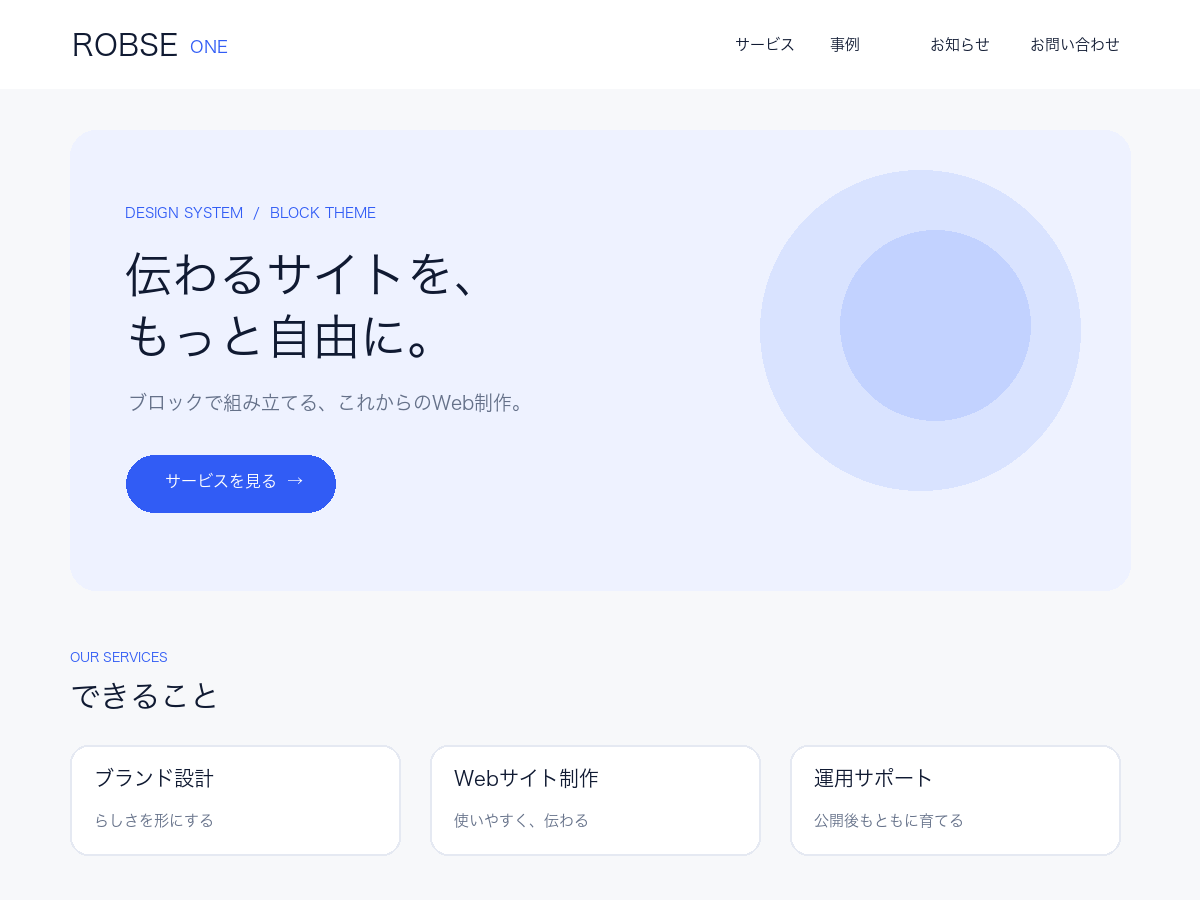
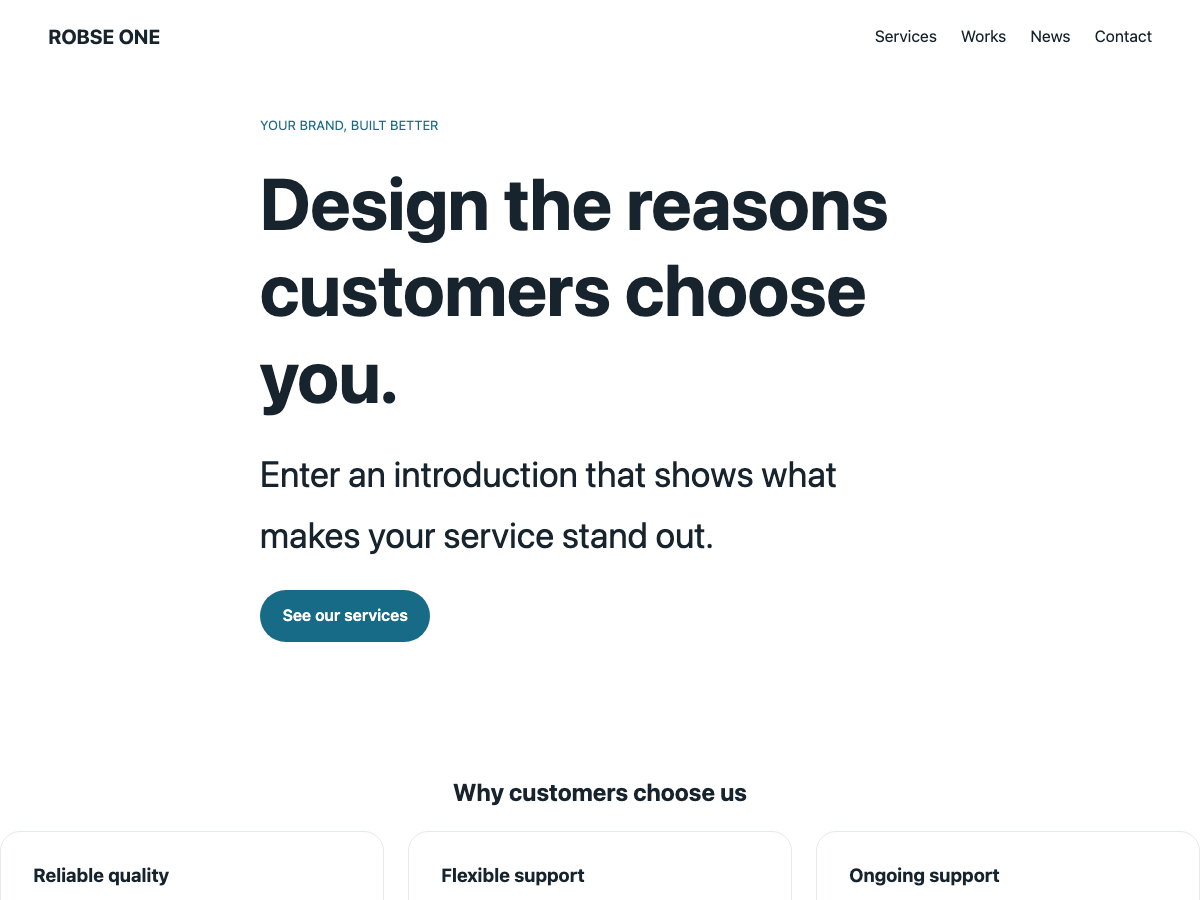
Theme 0.2.3 candidate: translatable remaining strings, new screenshot, readme copyright
Prepared for the review of ticket #292750. Not uploaded.

diff --git a/themes/robse-one/parts/footer.html b/themes/robse-one/parts/footer.html
@@ -1,3 +1,3 @@
 <!-- wp:group {"align":"full","backgroundColor":"paper","style":{"spacing":{"padding":{"top":"2rem","bottom":"2rem"}}},"layout":{"type":"constrained"}} -->
 <div class="wp-block-group alignfull has-paper-background-color has-background" style="padding-top:2rem;padding-bottom:2rem"><!-- wp:group {"align":"wide","layout":{"type":"flex","justifyContent":"space-between","flexWrap":"wrap"}} -->
-<div class="wp-block-group alignwide"><!-- wp:site-title {"level":0,"fontSize":"medium"} /--><!-- wp:paragraph {"fontSize":"small"} --><p class="has-small-font-size">© All rights reserved.</p><!-- /wp:paragraph --></div><!-- /wp:group --></div><!-- /wp:group -->
+<div class="wp-block-group alignwide"><!-- wp:site-title {"level":0,"fontSize":"medium"} /--><!-- wp:pattern {"slug":"robse-one/hidden-footer-credit"} /--></div><!-- /wp:group --></div><!-- /wp:group -->

diff --git a/themes/robse-one/style.css b/themes/robse-one/style.css
@@ -3,7 +3,7 @@ Theme Name: ROBSE ONE
 Theme URI: https://robse.jp/robse-one/
 Author: Robse
 Description: A block theme for Gutenberg-first site building, with design tokens and section patterns. It includes templates, template parts and reusable section patterns for small business sites.
-Version: 0.2.2
+Version: 0.2.3
 Requires at least: 6.6
 Requires PHP: 7.4
 Tested up to: 7.1

diff --git a/themes/robse-one/patterns/services.php b/themes/robse-one/patterns/services.php
@@ -6,4 +6,4 @@
  * Viewport Width: 1200
  */
 ?>
-<!-- wp:group {"align":"wide","anchor":"services","className":"robse-section","layout":{"type":"constrained"}} --><div class="wp-block-group alignwide robse-section" id="services"><!-- wp:paragraph {"align":"center","textColor":"ocean","fontSize":"small"} --><p class="has-text-align-center has-ocean-color has-text-color has-small-font-size">OUR SERVICES</p><!-- /wp:paragraph --><!-- wp:heading {"textAlign":"center","level":2} --><h2 class="wp-block-heading has-text-align-center"><?php echo esc_html__( 'Our services', 'robse-one' ); ?></h2><!-- /wp:heading --><!-- wp:columns --><div class="wp-block-columns"><!-- wp:column --><div class="wp-block-column"><!-- wp:group {"className":"robse-card","layout":{"type":"constrained"}} --><div class="wp-block-group robse-card"><!-- wp:heading {"level":3} --><h3 class="wp-block-heading"><?php echo esc_html__( 'Service A', 'robse-one' ); ?></h3><!-- /wp:heading --><!-- wp:paragraph --><p><?php echo esc_html__( 'Introduce the service and how it benefits your customers.', 'robse-one' ); ?></p><!-- /wp:paragraph --><!-- wp:paragraph --><p><?php echo esc_html__( 'Link to the service\'s details page.', 'robse-one' ); ?></p><!-- /wp:paragraph --></div><!-- /wp:group --></div><!-- /wp:column --><!-- wp:column --><div class="wp-block-column"><!-- wp:group {"className":"robse-card","layout":{"type":"constrained"}} --><div class="wp-block-group robse-card"><!-- wp:heading {"level":3} --><h3 class="wp-block-heading"><?php echo esc_html__( 'Service B', 'robse-one' ); ?></h3><!-- /wp:heading --><!-- wp:paragraph --><p><?php echo esc_html__( 'Briefly describe who the service is for and what it includes.', 'robse-one' ); ?></p><!-- /wp:paragraph --><!-- wp:paragraph --><p><?php echo esc_html__( 'Link to the service\'s details page.', 'robse-one' ); ?></p><!-- /wp:paragraph --></div><!-- /wp:group --></div><!-- /wp:column --><!-- wp:column --><div class="wp-block-column"><!-- wp:group {"className":"robse-card","layout":{"type":"constrained"}} --><div class="wp-block-group robse-card"><!-- wp:heading {"level":3} --><h3 class="wp-block-heading"><?php echo esc_html__( 'Service C', 'robse-one' ); ?></h3><!-- /wp:heading --><!-- wp:paragraph --><p><?php echo esc_html__( 'Explain how it differs from other services and why to choose it.', 'robse-one' ); ?></p><!-- /wp:paragraph --><!-- wp:paragraph --><p><?php echo esc_html__( 'Link to the service\'s details page.', 'robse-one' ); ?></p><!-- /wp:paragraph --></div><!-- /wp:group --></div><!-- /wp:column --></div><!-- /wp:columns --></div><!-- /wp:group -->
+<!-- wp:group {"align":"wide","anchor":"services","className":"robse-section","layout":{"type":"constrained"}} --><div class="wp-block-group alignwide robse-section" id="services"><!-- wp:paragraph {"align":"center","textColor":"ocean","fontSize":"small"} --><p class="has-text-align-center has-ocean-color has-text-color has-small-font-size"><?php echo esc_html__( 'OUR SERVICES', 'robse-one' ); ?></p><!-- /wp:paragraph --><!-- wp:heading {"textAlign":"center","level":2} --><h2 class="wp-block-heading has-text-align-center"><?php echo esc_html__( 'Our services', 'robse-one' ); ?></h2><!-- /wp:heading --><!-- wp:columns --><div class="wp-block-columns"><!-- wp:column --><div class="wp-block-column"><!-- wp:group {"className":"robse-card","layout":{"type":"constrained"}} --><div class="wp-block-group robse-card"><!-- wp:heading {"level":3} --><h3 class="wp-block-heading"><?php echo esc_html__( 'Service A', 'robse-one' ); ?></h3><!-- /wp:heading --><!-- wp:paragraph --><p><?php echo esc_html__( 'Introduce the service and how it benefits your customers.', 'robse-one' ); ?></p><!-- /wp:paragraph --><!-- wp:paragraph --><p><?php echo esc_html__( 'Link to the service\'s details page.', 'robse-one' ); ?></p><!-- /wp:paragraph --></div><!-- /wp:group --></div><!-- /wp:column --><!-- wp:column --><div class="wp-block-column"><!-- wp:group {"className":"robse-card","layout":{"type":"constrained"}} --><div class="wp-block-group robse-card"><!-- wp:heading {"level":3} --><h3 class="wp-block-heading"><?php echo esc_html__( 'Service B', 'robse-one' ); ?></h3><!-- /wp:heading --><!-- wp:paragraph --><p><?php echo esc_html__( 'Briefly describe who the service is for and what it includes.', 'robse-one' ); ?></p><!-- /wp:paragraph --><!-- wp:paragraph --><p><?php echo esc_html__( 'Link to the service\'s details page.', 'robse-one' ); ?></p><!-- /wp:paragraph --></div><!-- /wp:group --></div><!-- /wp:column --><!-- wp:column --><div class="wp-block-column"><!-- wp:group {"className":"robse-card","layout":{"type":"constrained"}} --><div class="wp-block-group robse-card"><!-- wp:heading {"level":3} --><h3 class="wp-block-heading"><?php echo esc_html__( 'Service C', 'robse-one' ); ?></h3><!-- /wp:heading --><!-- wp:paragraph --><p><?php echo esc_html__( 'Explain how it differs from other services and why to choose it.', 'robse-one' ); ?></p><!-- /wp:paragraph --><!-- wp:paragraph --><p><?php echo esc_html__( 'Link to the service\'s details page.', 'robse-one' ); ?></p><!-- /wp:paragraph --></div><!-- /wp:group --></div><!-- /wp:column --></div><!-- /wp:columns --></div><!-- /wp:group -->

diff --git a/themes/robse-one/patterns/industry-recruitment.php b/themes/robse-one/patterns/industry-recruitment.php
@@ -7,5 +7,5 @@
  * Viewport Width: 1200
  */
 ?>
-<!-- wp:cover {"dimRatio":0,"overlayColor":"mint","textColor":"ink","minHeight":440,"minHeightUnit":"px","align":"wide","className":"robse-hero","layout":{"type":"constrained"}} --><div class="wp-block-cover alignwide robse-hero has-ink-color has-text-color" style="min-height:440px"><span aria-hidden="true" class="wp-block-cover__background has-mint-background-color has-background-dim-0 has-background-dim"></span><div class="wp-block-cover__inner-container"><!-- wp:paragraph {"textColor":"ocean","fontSize":"small"} --><p class="has-ocean-color has-text-color has-small-font-size">CAREERS</p><!-- /wp:paragraph --><!-- wp:heading {"level":1,"fontSize":"display"} --><h1 class="wp-block-heading has-display-font-size"><?php echo esc_html__( 'Take your next step', 'robse-one' ); ?><br><?php echo esc_html__( 'with us.', 'robse-one' ); ?></h1><!-- /wp:heading --><!-- wp:paragraph --><p><?php echo esc_html__( 'Describe what makes the job rewarding and what your team values.', 'robse-one' ); ?></p><!-- /wp:paragraph --></div></div><!-- /wp:cover -->
+<!-- wp:cover {"dimRatio":0,"overlayColor":"mint","textColor":"ink","minHeight":440,"minHeightUnit":"px","align":"wide","className":"robse-hero","layout":{"type":"constrained"}} --><div class="wp-block-cover alignwide robse-hero has-ink-color has-text-color" style="min-height:440px"><span aria-hidden="true" class="wp-block-cover__background has-mint-background-color has-background-dim-0 has-background-dim"></span><div class="wp-block-cover__inner-container"><!-- wp:paragraph {"textColor":"ocean","fontSize":"small"} --><p class="has-ocean-color has-text-color has-small-font-size"><?php echo esc_html__( 'CAREERS', 'robse-one' ); ?></p><!-- /wp:paragraph --><!-- wp:heading {"level":1,"fontSize":"display"} --><h1 class="wp-block-heading has-display-font-size"><?php echo esc_html__( 'Take your next step', 'robse-one' ); ?><br><?php echo esc_html__( 'with us.', 'robse-one' ); ?></h1><!-- /wp:heading --><!-- wp:paragraph --><p><?php echo esc_html__( 'Describe what makes the job rewarding and what your team values.', 'robse-one' ); ?></p><!-- /wp:paragraph --></div></div><!-- /wp:cover -->
 <!-- wp:group {"align":"wide","className":"robse-section","layout":{"type":"constrained"}} --><div class="wp-block-group alignwide robse-section"><!-- wp:heading {"level":2} --><h2 class="wp-block-heading"><?php echo esc_html__( 'Where you will work', 'robse-one' ); ?></h2><!-- /wp:heading --><!-- wp:columns --><div class="wp-block-columns"><!-- wp:column --><div class="wp-block-column"><!-- wp:group {"className":"robse-card","layout":{"type":"constrained"}} --><div class="wp-block-group robse-card"><!-- wp:heading {"level":3} --><h3 class="wp-block-heading"><?php echo esc_html__( 'The job', 'robse-one' ); ?></h3><!-- /wp:heading --><!-- wp:paragraph --><p><?php echo esc_html__( 'Describe the role, a typical day and the experience required.', 'robse-one' ); ?></p><!-- /wp:paragraph --></div><!-- /wp:group --></div><!-- /wp:column --><!-- wp:column --><div class="wp-block-column"><!-- wp:group {"className":"robse-card","layout":{"type":"constrained"}} --><div class="wp-block-group robse-card"><!-- wp:heading {"level":3} --><h3 class="wp-block-heading"><?php echo esc_html__( 'Benefits and support', 'robse-one' ); ?></h3><!-- /wp:heading --><!-- wp:paragraph --><p><?php echo esc_html__( 'Describe working conditions, benefits and training accurately.', 'robse-one' ); ?></p><!-- /wp:paragraph --></div><!-- /wp:group --></div><!-- /wp:column --></div><!-- /wp:columns --><!-- wp:heading {"level":2} --><h2 class="wp-block-heading"><?php echo esc_html__( 'Job details', 'robse-one' ); ?></h2><!-- /wp:heading --><!-- wp:list --><ul><li><?php echo esc_html__( 'Employment type and location', 'robse-one' ); ?></li><li><?php echo esc_html__( 'Working hours and days off', 'robse-one' ); ?></li><li><?php echo esc_html__( 'Salary and requirements', 'robse-one' ); ?></li><li><?php echo esc_html__( 'Selection process and how to apply', 'robse-one' ); ?></li></ul><!-- /wp:list --><!-- wp:paragraph --><p><?php echo esc_html__( 'Always update this to the latest job conditions before publishing.', 'robse-one' ); ?></p><!-- /wp:paragraph --></div><!-- /wp:group -->

diff --git a/themes/robse-one/patterns/industry-construction.php b/themes/robse-one/patterns/industry-construction.php
@@ -7,5 +7,5 @@
  * Viewport Width: 1200
  */
 ?>
-<!-- wp:cover {"dimRatio":0,"overlayColor":"mint","textColor":"ink","minHeight":440,"minHeightUnit":"px","align":"wide","className":"robse-hero","layout":{"type":"constrained"}} --><div class="wp-block-cover alignwide robse-hero has-ink-color has-text-color" style="min-height:440px"><span aria-hidden="true" class="wp-block-cover__background has-mint-background-color has-background-dim-0 has-background-dim"></span><div class="wp-block-cover__inner-container"><!-- wp:paragraph {"textColor":"ocean","fontSize":"small"} --><p class="has-ocean-color has-text-color has-small-font-size">BUILD WITH CARE</p><!-- /wp:paragraph --><!-- wp:heading {"level":1,"fontSize":"display"} --><h1 class="wp-block-heading has-display-font-size"><?php echo esc_html__( 'Building for the way', 'robse-one' ); ?><br><?php echo esc_html__( 'you live.', 'robse-one' ); ?></h1><!-- /wp:heading --><!-- wp:paragraph --><p><?php echo esc_html__( 'Briefly introduce your service area and specialties.', 'robse-one' ); ?></p><!-- /wp:paragraph --></div></div><!-- /wp:cover -->
+<!-- wp:cover {"dimRatio":0,"overlayColor":"mint","textColor":"ink","minHeight":440,"minHeightUnit":"px","align":"wide","className":"robse-hero","layout":{"type":"constrained"}} --><div class="wp-block-cover alignwide robse-hero has-ink-color has-text-color" style="min-height:440px"><span aria-hidden="true" class="wp-block-cover__background has-mint-background-color has-background-dim-0 has-background-dim"></span><div class="wp-block-cover__inner-container"><!-- wp:paragraph {"textColor":"ocean","fontSize":"small"} --><p class="has-ocean-color has-text-color has-small-font-size"><?php echo esc_html__( 'BUILD WITH CARE', 'robse-one' ); ?></p><!-- /wp:paragraph --><!-- wp:heading {"level":1,"fontSize":"display"} --><h1 class="wp-block-heading has-display-font-size"><?php echo esc_html__( 'Building for the way', 'robse-one' ); ?><br><?php echo esc_html__( 'you live.', 'robse-one' ); ?></h1><!-- /wp:heading --><!-- wp:paragraph --><p><?php echo esc_html__( 'Briefly introduce your service area and specialties.', 'robse-one' ); ?></p><!-- /wp:paragraph --></div></div><!-- /wp:cover -->
 <!-- wp:group {"align":"wide","className":"robse-section","layout":{"type":"constrained"}} --><div class="wp-block-group alignwide robse-section"><!-- wp:heading {"level":2} --><h2 class="wp-block-heading"><?php echo esc_html__( 'Building and construction services', 'robse-one' ); ?></h2><!-- /wp:heading --><!-- wp:columns --><div class="wp-block-columns"><!-- wp:column --><div class="wp-block-column"><!-- wp:group {"className":"robse-card","layout":{"type":"constrained"}} --><div class="wp-block-group robse-card"><!-- wp:heading {"level":3} --><h3 class="wp-block-heading"><?php echo esc_html__( 'New and custom homes', 'robse-one' ); ?></h3><!-- /wp:heading --><!-- wp:paragraph --><p><?php echo esc_html__( 'Your design approach, materials, and the process from consultation to completion.', 'robse-one' ); ?></p><!-- /wp:paragraph --></div><!-- /wp:group --></div><!-- /wp:column --><!-- wp:column --><div class="wp-block-column"><!-- wp:group {"className":"robse-card","layout":{"type":"constrained"}} --><div class="wp-block-group robse-card"><!-- wp:heading {"level":3} --><h3 class="wp-block-heading"><?php echo esc_html__( 'Renovations', 'robse-one' ); ?></h3><!-- /wp:heading --><!-- wp:paragraph --><p><?php echo esc_html__( 'The work you handle and how consultations and site surveys work.', 'robse-one' ); ?></p><!-- /wp:paragraph --></div><!-- /wp:group --></div><!-- /wp:column --></div><!-- /wp:columns --><!-- wp:heading {"level":2} --><h2 class="wp-block-heading"><?php echo esc_html__( 'Our work', 'robse-one' ); ?></h2><!-- /wp:heading --><!-- wp:paragraph --><p><?php echo esc_html__( 'Show project photos, the work done, the area and when it was completed.', 'robse-one' ); ?></p><!-- /wp:paragraph --><!-- wp:heading {"level":2} --><h2 class="wp-block-heading"><?php echo esc_html__( 'Contact', 'robse-one' ); ?></h2><!-- /wp:heading --><!-- wp:paragraph --><p><?php echo esc_html__( 'Describe your service area and how to contact you.', 'robse-one' ); ?></p><!-- /wp:paragraph --></div><!-- /wp:group -->

diff --git a/themes/robse-one/patterns/hero.php b/themes/robse-one/patterns/hero.php
@@ -7,4 +7,4 @@
  */
 ?>
 <!-- wp:cover {"dimRatio":0,"overlayColor":"mint","textColor":"ink","isUserOverlayColor":true,"minHeight":520,"minHeightUnit":"px","contentPosition":"center left","align":"wide","className":"robse-hero","layout":{"type":"constrained"}} -->
-<div class="wp-block-cover alignwide robse-hero has-ink-color has-text-color" style="min-height:520px"><span aria-hidden="true" class="wp-block-cover__background has-mint-background-color has-background-dim-0 has-background-dim"></span><div class="wp-block-cover__inner-container"><!-- wp:group {"layout":{"type":"constrained","contentSize":"680px"}} --><div class="wp-block-group"><!-- wp:paragraph {"textColor":"ocean","fontSize":"small"} --><p class="has-ocean-color has-text-color has-small-font-size">YOUR BRAND, BUILT BETTER</p><!-- /wp:paragraph --><!-- wp:heading {"level":1,"fontSize":"display"} --><h1 class="wp-block-heading has-display-font-size"><?php echo esc_html__( 'Design the reasons', 'robse-one' ); ?><br><?php echo esc_html__( 'customers choose you.', 'robse-one' ); ?></h1><!-- /wp:heading --><!-- wp:paragraph {"fontSize":"large"} --><p class="has-large-font-size"><?php echo esc_html__( 'Enter an introduction that shows what makes your service stand out.', 'robse-one' ); ?></p><!-- /wp:paragraph --><!-- wp:buttons --><div class="wp-block-buttons"><!-- wp:button {"url":"#services"} --><div class="wp-block-button"><a class="wp-block-button__link wp-element-button" href="#services"><?php echo esc_html__( 'See our services', 'robse-one' ); ?></a></div><!-- /wp:button --></div><!-- /wp:buttons --></div><!-- /wp:group --></div></div><!-- /wp:cover -->
+<div class="wp-block-cover alignwide robse-hero has-ink-color has-text-color" style="min-height:520px"><span aria-hidden="true" class="wp-block-cover__background has-mint-background-color has-background-dim-0 has-background-dim"></span><div class="wp-block-cover__inner-container"><!-- wp:group {"layout":{"type":"constrained","contentSize":"680px"}} --><div class="wp-block-group"><!-- wp:paragraph {"textColor":"ocean","fontSize":"small"} --><p class="has-ocean-color has-text-color has-small-font-size"><?php echo esc_html__( 'YOUR BRAND, BUILT BETTER', 'robse-one' ); ?></p><!-- /wp:paragraph --><!-- wp:heading {"level":1,"fontSize":"display"} --><h1 class="wp-block-heading has-display-font-size"><?php echo esc_html__( 'Design the reasons', 'robse-one' ); ?><br><?php echo esc_html__( 'customers choose you.', 'robse-one' ); ?></h1><!-- /wp:heading --><!-- wp:paragraph {"fontSize":"large"} --><p class="has-large-font-size"><?php echo esc_html__( 'Enter an introduction that shows what makes your service stand out.', 'robse-one' ); ?></p><!-- /wp:paragraph --><!-- wp:buttons --><div class="wp-block-buttons"><!-- wp:button {"url":"#services"} --><div class="wp-block-button"><a class="wp-block-button__link wp-element-button" href="#services"><?php echo esc_html__( 'See our services', 'robse-one' ); ?></a></div><!-- /wp:button --></div><!-- /wp:buttons --></div><!-- /wp:group --></div></div><!-- /wp:cover -->

diff --git a/themes/robse-one/patterns/contact.php b/themes/robse-one/patterns/contact.php
@@ -5,4 +5,4 @@
  * Categories: robse-one, call-to-action
  */
 ?>
-<!-- wp:group {"align":"wide","anchor":"contact","backgroundColor":"mint","className":"robse-section","style":{"border":{"radius":"24px"},"spacing":{"padding":{"top":"3rem","bottom":"3rem","left":"2rem","right":"2rem"}}},"layout":{"type":"constrained"}} --><div class="wp-block-group alignwide robse-section has-mint-background-color has-background" id="contact" style="border-radius:24px;padding:3rem 2rem"><!-- wp:heading {"textAlign":"center","level":2} --><h2 class="wp-block-heading has-text-align-center"><?php echo esc_html__( 'Contact', 'robse-one' ); ?></h2><!-- /wp:heading --><!-- wp:paragraph {"align":"center"} --><p class="has-text-align-center"><?php echo esc_html__( 'Feel free to contact us for consultations, quotes and more.', 'robse-one' ); ?></p><!-- /wp:paragraph --><!-- wp:paragraph {"align":"center","fontSize":"large"} --><p class="has-text-align-center has-large-font-size">TEL 00-0000-0000</p><!-- /wp:paragraph --><!-- wp:paragraph {"align":"center","fontSize":"small"} --><p class="has-text-align-center has-small-font-size"><?php echo esc_html__( 'Add your contact details or form here.', 'robse-one' ); ?></p><!-- /wp:paragraph --></div><!-- /wp:group -->
+<!-- wp:group {"align":"wide","anchor":"contact","backgroundColor":"mint","className":"robse-section","style":{"border":{"radius":"24px"},"spacing":{"padding":{"top":"3rem","bottom":"3rem","left":"2rem","right":"2rem"}}},"layout":{"type":"constrained"}} --><div class="wp-block-group alignwide robse-section has-mint-background-color has-background" id="contact" style="border-radius:24px;padding:3rem 2rem"><!-- wp:heading {"textAlign":"center","level":2} --><h2 class="wp-block-heading has-text-align-center"><?php echo esc_html__( 'Contact', 'robse-one' ); ?></h2><!-- /wp:heading --><!-- wp:paragraph {"align":"center"} --><p class="has-text-align-center"><?php echo esc_html__( 'Feel free to contact us for consultations, quotes and more.', 'robse-one' ); ?></p><!-- /wp:paragraph --><!-- wp:paragraph {"align":"center","fontSize":"large"} --><p class="has-text-align-center has-large-font-size"><?php echo esc_html__( 'Phone: 00-0000-0000', 'robse-one' ); ?></p><!-- /wp:paragraph --><!-- wp:paragraph {"align":"center","fontSize":"small"} --><p class="has-text-align-center has-small-font-size"><?php echo esc_html__( 'Add your contact details or form here.', 'robse-one' ); ?></p><!-- /wp:paragraph --></div><!-- /wp:group -->

diff --git a/themes/robse-one/patterns/hidden-footer-credit.php b/themes/robse-one/patterns/hidden-footer-credit.php
@@ -1,0 +1,8 @@
+<?php
+/**
+ * Title: Footer credit
+ * Slug: robse-one/hidden-footer-credit
+ * Inserter: no
+ */
+?>
+<!-- wp:paragraph {"fontSize":"small"} --><p class="has-small-font-size"><?php echo esc_html__( '© All rights reserved.', 'robse-one' ); ?></p><!-- /wp:paragraph -->
